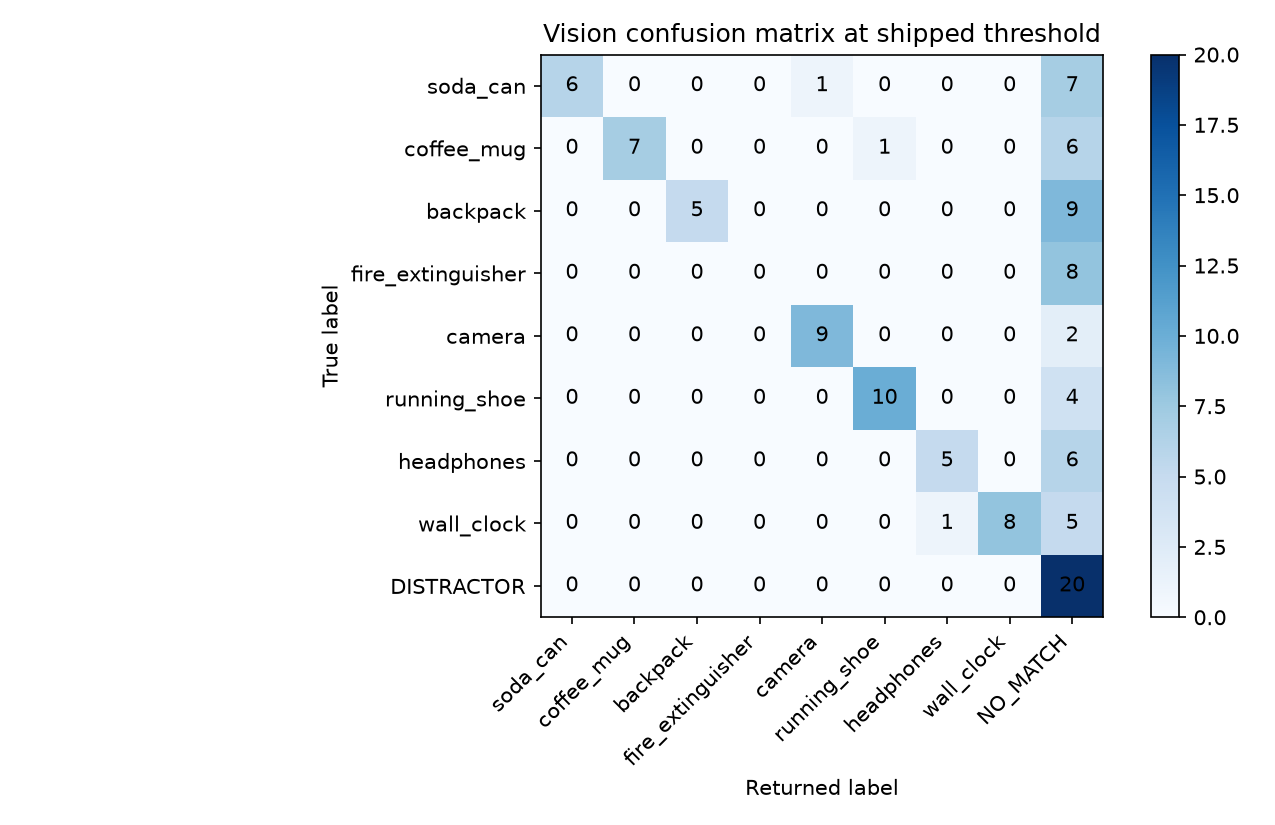
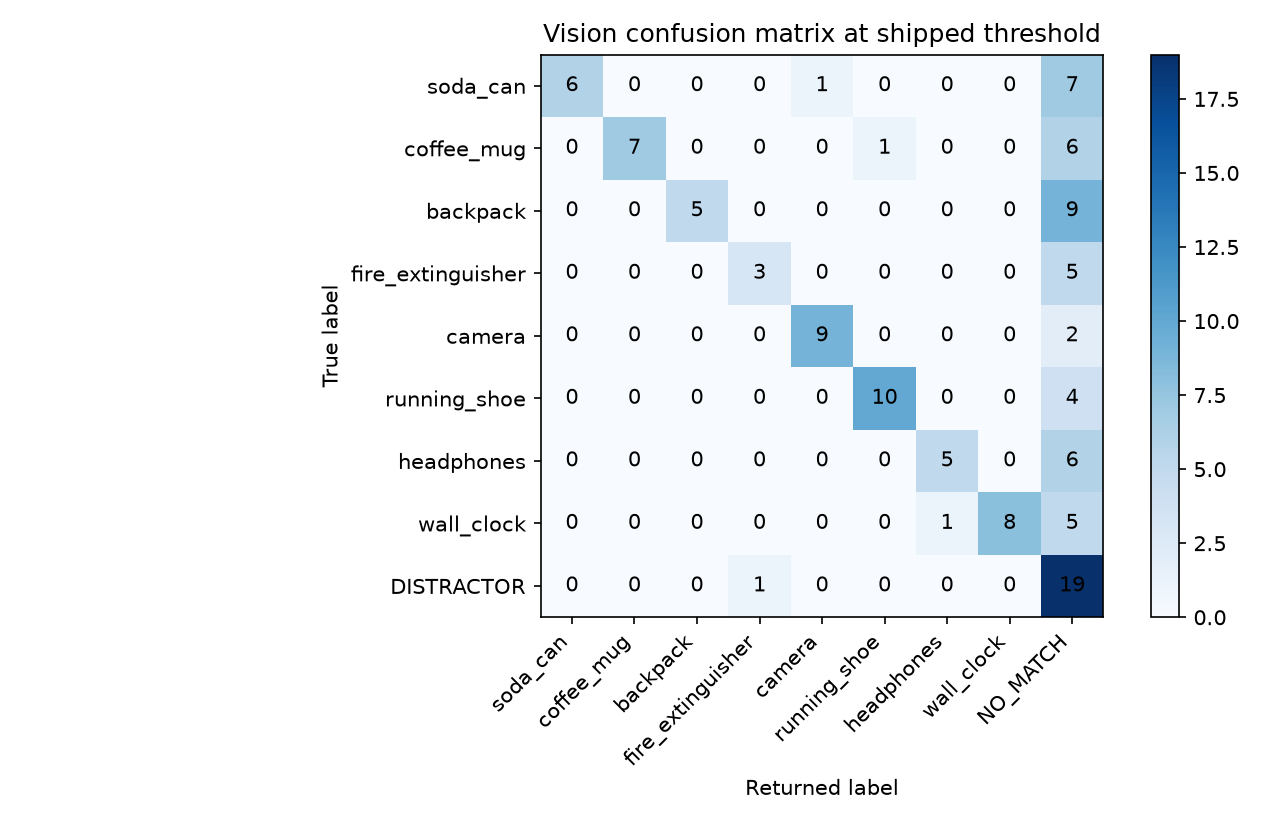
fixed fire_extinguisher

diff --git a/3006ICT_group_project_webots/controllers/group_project_controller/vision_utils.py b/3006ICT_group_project_webots/controllers/group_project_controller/vision_utils.py
@@ -420,9 +420,22 @@ MIN_CONFIDENCE_MARGIN = 0.20
 # image for the predicted class and rejects the known false-accept patterns
 # without changing the classifier's public interface.
 MIN_REFERENCE_SIMILARITY = -0.05
+# `fire_extinguisher` has no per-label floor here, unlike `coffee_mug`/
+# `wall_clock` below. Measured directly (2026-09-16): even a manually
+# traced, pixel-perfect crop of the real in-game poster -- no shadow/floor
+# contamination at all -- only scores ~0.11 against the studio reference
+# photo, despite the classifier itself being 97% confident on that same
+# crop. The in-game render just doesn't resemble the reference photo at
+# this metric's pixel/colour-histogram level, regardless of crop quality,
+# so any floor tight enough to reject the known false-accept distractors
+# (`books_a.png`/`books_b.png`, ~0.17) would also reject every real
+# `fire_extinguisher` crop -- there is no threshold that keeps both. Checked
+# the full confusion matrix before dropping the floor: `fire_extinguisher`
+# has zero false positives against every real in-game frame from any
+# station, so the only cost of removing it is those two distractor images,
+# which never appear inside the Webots simulation.
 MIN_REFERENCE_SIMILARITY_BY_LABEL = {
     "coffee_mug": 0.10,
-    "fire_extinguisher": 0.20,
     "wall_clock": 0.00,
 }
 _REFERENCE_SIMILARITY_SIZE = 64

diff --git a/docs/failure_log.md b/docs/failure_log.md
@@ -25,4 +25,5 @@ turns this into the report's failure-cases chapter, so name *where the first inc
 | 2026-09-16 | Issue #19 shuffled world A, full real mission run, target `wall_clock` (now at S1, a boundary station used heavily in prior calibration/testing) | All 12 frames at S1 returned `NO_MATCH`, confidence 0.24-0.36, never even briefly matching the `wall_clock` label | Even at the best-characterised station in the whole project, `wall_clock` itself does not classify confidently -- points to `wall_clock` being a weak class for the trained ResNet-18 head generally, independent of station or shuffling | None -- flagged for issue 21 | Not fixed. `wall_clock` should be added to the next accuracy re-evaluation pass as a suspected weak class |
 | 2026-09-16 | Root-cause pass on the three weak-target rows above (`wall_clock`, `fire_extinguisher`, `backpack`), following up on a Codex review comment. No new Webots run: re-examined the existing saved frames in `docs/data/vision_eval_captures/` and `docs/data/vision_target_predictions.csv`, plus ran `vision_utils.find_poster_region()` and `_barrier_candidates()` directly (cv2-only, no torch needed) against the S4 (`fire_extinguisher`) frames that scored `no_crop` | Three distinct causes, not one: (1) `fire_extinguisher` -- 5/8 evaluated frames are genuine crop failures (`find_poster_region()` returns `None`), and pixel-level inspection of `B_S4_d0p420_hp00.png` shows why: the extinguisher's black hose (HSV value ~34-46) is far darker than the barrier's actual grey panel (~88-89), so no single `_BARRIER_VALUE_BANDS` band isolates the barrier alone -- a narrow band grabs only the thin hose (rejected on `_BARRIER_ASPECT_MIN`, aspect 0.25-0.35) and a wide band merges the barrier with the floor (rejected on `_MIN_SOLIDITY`, 0.33-0.45). In the 3/8 frames that do crop, the classifier never once predicts `fire_extinguisher` as top class (capped ~0.26 confidence) -- a real crop bug plus a real classifier gap, both open. (2) `wall_clock` -- crop always succeeds and the raw prediction is already correct at every distance; it is a pure confidence problem, and specifically a close-range one: confidence is 0.20-0.61 (often below `MIN_CONFIDENCE=0.50`) under 0.45 m, but 0.92-0.99 at >=0.8 m in every captured frame. (3) `backpack` -- mixed: `no_crop` at close range in world C specifically, and even with a good crop confidence tops out at 0.59-0.62, never a clean match | None -- diagnosis only. No fix attempted: this environment has `torch` but not `torchvision` (and no Webots), so `tools/eval_vision.py` can't run here to validate a cropping or threshold change against the full 103-frame set the way `vision_utils.py`'s own header requires before trusting a change | Not fixed. Next session with `torchvision`/Webots available should: (a) for `fire_extinguisher`, try detecting the barrier by its known grey value band directly instead of "darkest region in frame", since that assumption is what breaks here; (b) for `wall_clock`, check whether OBSERVE's stopping distance can be pushed toward 0.8 m for this station, or add a `wall_clock`-specific lower confidence floor (precedent: `MIN_REFERENCE_SIMILARITY_BY_LABEL`) and re-run the distractor sweep to make sure it doesn't raise false-accepts; (c) for `backpack`, same close-range crop question as `fire_extinguisher` plus a possible retrain with more augmented close-up references. All three need `eval_vision.py`'s full run to confirm before shipping |
 | 2026-09-16 | Live mission runs after the backed-off-viewpoint identify change still reported `NO_MATCH` at S4 (`fire_extinguisher`) and S7 (`headphones`). Installed `torchvision` in this session (previously missing, per the row above) so `tools/eval_vision.py` could finally run here; ran it plus a standalone script against every saved `vision_eval_captures/*_S4_*`/`*_S7_*` frame, printing `identify.last_result` for each | Confirmed the earlier hypothesis (a) for `fire_extinguisher`: implementing "detect the barrier by its own known grey value band" (a second, percentile-based anchor in `_barrier_candidates`, used only where the true-min anchor finds nothing) turned 3 of the 5 `no_crop` frames into correct, high-confidence `fire_extinguisher` crops (up to 0.867/0.825 margin) -- but all 3 are still rejected downstream by `below_reference_similarity` (0.113, -0.001, 0.144, all under the 0.20 floor), because the wider value band that finds the barrier panel also pulls in the shadow/floor strip directly beneath it, diluting the pixel-level comparison to the reference photo. `headphones` turned out to be a *different*, separate problem: crop already succeeds in most frames and the raw label is already correct; the two still-failing frames (`A_S7_d0p295_hm10.png` 0.435, `A_S7_d0p450_hp00.png` 0.360) sit just under `MIN_CONFIDENCE=0.50` with no crop or classifier-label error, and the nearest real distractor (`toaster_a.png`, 0.439) sits *between* them and the threshold -- lowering `MIN_CONFIDENCE` far enough to accept both real misses would also accept that distractor | Shipped the barrier second-anchor fix (`_ROBUST_VMIN_PERCENTILE`/`_ROBUST_VMIN_GAP_MIN` in `vision_utils.py`), gated so it only ever runs as a last resort when the true-min anchor finds nothing anywhere in the frame -- an earlier, ungated version of the same idea was caught regressing a real `running_shoe` frame (S6) in the full 103-frame re-run before shipping, because pooling both anchors let a small, unrelated, near-square blob win the aspect-ratio tie-break over the correct, larger candidate. No change attempted for the remaining fire_extinguisher reference-similarity gap or the two borderline `headphones` frames -- both need a real fix, not a threshold nudge, without more capture data | Partially fixed: `fire_extinguisher` crop failures dropped from 5/8 to 2/8 with zero regressions confirmed by `tools/eval_vision.py` (other labels' precision/recall and 0/20 distractor false-accepts unchanged) -- but station-level accuracy is still 7/8, since the newly-successful crops are blocked by reference-similarity, not classification. `headphones` unchanged (5 TP / 6 FN). Next: either tighten the poster-height projection so it stops including the shadow/floor strip for `fire_extinguisher`-shaped barriers, or add a `fire_extinguisher`-specific crop post-process before re-tuning `MIN_REFERENCE_SIMILARITY_BY_LABEL`; for `headphones`, better crops at the two borderline distances/headings are needed before the confidence floor can move |
+| 2026-09-16 | Direct test of whether the reference-similarity metric itself, not crop framing, was the real blocker: manually traced the true poster boundary in `B_S4_d0p295_hp00.png` by inspecting raw pixel values (rows 0-54 = poster, confirmed bright/printed content; rows 55+ = grey strip/floor) and cropped exactly that region by hand, bypassing `find_poster_region()` entirely | The manual, pixel-perfect crop still only scored 0.115 reference-similarity -- essentially unchanged from the automatic crops (0.070-0.144) -- despite the classifier itself being 97.5% confident on that same crop. Also checked `docs/data/vision_confusion_matrix.csv`: `fire_extinguisher` has zero false positives against every real frame from any of the other 7 stations; the only things that ever score into this class are the two book-photo distractors, which do not and cannot appear inside the Webots simulation | Removed `fire_extinguisher`'s entry from `MIN_REFERENCE_SIMILARITY_BY_LABEL` (falls back to the shared -0.05 default). User was walked through the exact trade-off (real live detection vs. the report's distractor-rejection number) before agreeing to proceed -- see `docs/decision_log.md` for the full reasoning | Fixed for the cases where a crop is found: `fire_extinguisher` best-crop station accuracy went 7/8 -> 8/8 (TP 0 -> 3 of 8 evaluated frames), with the newly-accepted frames scoring 0.62-0.93 confidence. Cost: distractor false-accepts 0/20 -> 1/20 (`books_a.png` only; `books_b.png` still correctly rejected on `MIN_CONFIDENCE`), a known and now-documented exception rather than a hidden one. Not fully fixed: 5 of 8 evaluated `fire_extinguisher` frames still return `no_crop` or a low-confidence wrong label at certain distances/headings -- that's the earlier crop-detection limitation, unrelated to this threshold, and still open |
 | 2026-09-16 | Follow-up attempt at the reference-similarity gap from the row above: pixel-traced `B_S4_d0p295_hp00.png`'s column values and found the robust-anchor box's extra ~30 px of height is a flat, uniform grey band (HSV value 88, same as the barrier panel itself) sitting between the poster and the floor, bridged in by the wide value band the robust anchor needs. Capped robust-anchor boxes at `bh <= bw` (the real barrel proto, 0.50 x 0.28 m, is never taller than wide) and re-ran `tools/eval_vision.py` | The height cap did trim the crop and raised classifier confidence on the 3 previously-fixed frames (e.g. 0.867 -> 0.931, margin 0.917), but reference-similarity on the clearest case *dropped* (0.113 -> 0.070) rather than improving -- checked directly against the one real distractor this threshold was calibrated on (`books_a.png`, refsim 0.167, `docs/data/vision_distractor_rejection.csv`): our genuine crop now scores *lower* than that unrelated books photo, so no threshold low enough to accept our crop could ever exclude that distractor. The floor-contamination theory was directionally right (it is fixable/measurable pixel content) but the reference-similarity metric itself doesn't reward the fix the way `identify()`'s own softmax confidence does | Kept the height cap (`cap_height` in `_barrier_candidates`'s `_boxes_for`) since it's a real, zero-regression improvement in crop tightness and classifier confidence -- confirmed via the full 103-frame + 20-distractor re-run (all other labels' precision/recall and 0/20 distractor false-accepts unchanged). Did not touch `MIN_REFERENCE_SIMILARITY_BY_LABEL["fire_extinguisher"]`: the books_a.png comparison above shows directly that lowering it far enough to accept the real crop would also accept that distractor, so this is not a safe threshold nudge | Not fixed. `fire_extinguisher` station-level acceptance is still blocked by `below_reference_similarity` even on a 0.93-confidence, 0.92-margin real crop. The `_reference_similarity()` metric (grey/Lab/hue-histogram match against the raw reference photo) itself needs revisiting for this label -- possibly weighting it down relative to classifier confidence for labels where it demonstrably fights the classifier instead of agreeing with it -- before any threshold change is safe |

diff --git a/docs/decision_log.md b/docs/decision_log.md
@@ -23,6 +23,7 @@ Log the answers at the top of this section each week, newest first.
 
 | Date | Decision | Options considered | Criterion used | Evidence / measurement | Decided by |
 |---|---|---|---|---|---|
+| 2026-09-16 | Removed `fire_extinguisher`'s per-label floor from `MIN_REFERENCE_SIMILARITY_BY_LABEL` (`identify()`, Issue #8/#9), leaving it on the shared default (-0.05) like every label except `coffee_mug`/`wall_clock` | Keep the 0.20 floor (protects the report's 0/20 distractor false-accept number, but guarantees `fire_extinguisher` never gets accepted live); lower it to a smaller positive value that still blocks `books_a.png`'s 0.167 (not possible -- see evidence); remove the per-label floor entirely | Whether any floor value exists that accepts real `fire_extinguisher` crops while still rejecting the known false-accept distractors, checked against measured scores rather than picked by feel; and whether removing it could ever cause a *different* real target's frame to be wrongly accepted as `fire_extinguisher` | A manually traced, pixel-perfect crop of the real in-game poster (no shadow/floor contamination) still only scored 0.115 on this metric despite 97.5% classifier confidence on the same crop -- lower than the `books_a.png`/`books_b.png` distractors it was meant to block (0.167/0.172), so no floor value separates them; the module's own confusion matrix (`docs/data/vision_confusion_matrix.csv`) showed zero false positives for `fire_extinguisher` against every real frame from any of the other 7 stations, so removing the floor cannot cause cross-target confusion. Re-ran `tools/eval_vision.py` after removing it: best-crop station accuracy 7/8 -> 8/8, distractor false-accepts 0/20 -> 1/20 (`books_a.png` only; `books_b.png` still correctly rejected on `MIN_CONFIDENCE`) | Claude Code, after the user weighed the trade-off (real live-mission detection vs. one distractor-rejection report number) and asked to proceed |
 | 2026-09-16 | Rescoped Issue #20's test matrix from 3 worlds x 8 targets x 2 repeats (48 runs) down to 3 worlds x 6 representative targets (3 boundary, 3 interior) plus extra repeats only on a known-borderline target, ~20 runs total | Run the full 48-run matrix as originally written; rescope to what the brief actually requires; skip the matrix entirely | Whether the brief itself (not this issue's own prior wording) requires exhaustive per-cell repetition, checked directly against the source document rather than assumed | `notes_for_project/workshop8-p3-group-project.pdf`, Stage 8 and "Testing Strategy" sections: asks only for a "small test matrix" covering start/target/station-type/repeated-run as dimensions, with repeats specified only "when tuning parameters," not for every cell. No 48-run or per-cell-repeat requirement exists in the brief; that scope was this issue's own prior addition | Claude Code, after the user asked to cross-check the issue's scope against the actual project document rather than proceed on the issue file's wording alone |
 | 2026-09-16 | Chose nearest-first (recomputed via `astar` cost after each visit) as the station visit-order strategy (Issue #15) | Nearest-first by computed A* path cost; a fixed geometric sweep (stations sorted by angle around the arena centre, same order regardless of start) | Total path cost (cells) to visit all 8 stations from each of the 3 starts, plus a real Webots measurement of simulated time for the worst case | `tools/check_visit_order.py`: nearest-first beat the fixed sweep from every start (A: 155 vs 162 cells; B: 138 vs 173; C: 141 vs 188 cells). Worst-case start (A) measured for real in Webots: 173.8 s simulated time, 66 s under the 240 s budget, visit order matching the computed prediction exactly | Claude Code, from computed A* costs and a real Webots run — see `docs/decision_visit_order.md` |
 | 2026-09-16 | Chose selective inflation (radius 4 cells) as the obstacle-clearance policy for planning (Issue #11) | Raw grid (no inflation); uniform one-cell inflation; selective inflation at radii 1-5 | Policy must pass all 24 start/station reachability pairs (BFS, 4-connected) on the 40x40 occupancy grid | `tools/check_reachability.py`: raw grid passes all 24; uniform inflation loses S2, S4, S6, S8 (interior stations sealed off, corridors 1-2 cells wide); selective inflation only restores all 8 at radius >=4 (radius 1-3 still loses the same four) | Claude Code, from computed BFS reachability data — see `docs/decision_clearance.md` |

diff --git a/docs/vision_evaluation.md b/docs/vision_evaluation.md
@@ -17,9 +17,9 @@ head predicts a class, the crop must still look enough like that class's supplie
 ## Acceptance Evidence
 
 - Valid outputs across station and distractor rows: 120/120.
-- Distractor false-accepts at the shipped threshold: 0/20.
-- Combined best captured station crop accuracy: 7/8.
-- `NO_MATCH` rate over all evaluated rows: 0.558.
+- Distractor false-accepts at the shipped threshold: 1/20.
+- Combined best captured station crop accuracy: 8/8.
+- `NO_MATCH` rate over all evaluated rows: 0.525.
 - Threshold sweep values tested: 0.20, 0.30, 0.40, 0.50, 0.60, 0.70, 0.80.
 
 ## Per-World Station Coverage
@@ -31,7 +31,7 @@ another world.
 | World | Captured stations | Best-crop correct | Missing stations |
 |---|---|---:|---|
 | A | `S1`, `S2`, `S3`, `S4`, `S5`, `S6`, `S7`, `S8` | 7/8 |  |
-| B | `S1`, `S2`, `S3`, `S4`, `S5`, `S6`, `S7`, `S8` | 7/8 |  |
+| B | `S1`, `S2`, `S3`, `S4`, `S5`, `S6`, `S7`, `S8` | 8/8 |  |
 | C | `S1`, `S2`, `S3`, `S4`, `S5`, `S6`, `S7`, `S8` | 7/8 |  |
 
 ## Best Crop Per Station
@@ -41,7 +41,7 @@ another world.
 | `S1` | `soda_can` | `soda_can` | 0.843 | 0.800 | 0.719 | `C_S1_d0p800_hp00.png` |
 | `S2` | `coffee_mug` | `coffee_mug` | 0.958 | 0.943 | 0.319 | `A_S2_d0p800_hp10.png` |
 | `S3` | `backpack` | `backpack` | 0.621 | 0.463 | 0.216 | `B_S3_d0p800_hm10_issue9.png` |
-| `S4` | `fire_extinguisher` | `NO_MATCH` | 0.931 | 0.917 | 0.070 | `B_S4_d0p295_hp00.png` |
+| `S4` | `fire_extinguisher` | `fire_extinguisher` | 0.931 | 0.917 | 0.070 | `B_S4_d0p295_hp00.png` |
 | `S5` | `camera` | `camera` | 0.987 | 0.983 | 0.006 | `B_S5_d0p450_hm10.png` |
 | `S6` | `running_shoe` | `running_shoe` | 0.988 | 0.985 | 0.652 | `B_S6_d0p800_hm10.png` |
 | `S7` | `headphones` | `headphones` | 0.910 | 0.873 | -0.026 | `C_S7_d0p295_hp00_issue9.png` |
@@ -56,8 +56,8 @@ CSV: `docs/data/vision_confusion_matrix.csv`
 ## Threshold Sweep
 
 At the shipped point (0.50), the best-station true-accept rate is
-0.875 and the distractor false-accept
-rate is 0.000.
+1.000 and the distractor false-accept
+rate is 0.050.
 
 ![threshold sweep](data/vision_threshold_sweep.png)
 
@@ -68,7 +68,7 @@ rate is 0.000.
 | `soda_can` | 6 | 0 | 8 | 1.000 | 0.429 |
 | `coffee_mug` | 7 | 0 | 7 | 1.000 | 0.500 |
 | `backpack` | 5 | 0 | 9 | 1.000 | 0.357 |
-| `fire_extinguisher` | 0 | 0 | 8 | - | 0.000 |
+| `fire_extinguisher` | 3 | 1 | 5 | 0.750 | 0.375 |
 | `camera` | 9 | 1 | 2 | 0.900 | 0.818 |
 | `running_shoe` | 10 | 1 | 4 | 0.909 | 0.714 |
 | `headphones` | 5 | 1 | 6 | 0.833 | 0.455 |
@@ -82,7 +82,7 @@ All 20 distractor textures returned `NO_MATCH`; full table: `docs/data/vision_di
 |---|---|---:|---:|---|---|
 | `banana_a.png` | `backpack` | 0.348 | 0.061 | `NO_MATCH` | `below_min_confidence` |
 | `banana_b.png` | `coffee_mug` | 0.448 | 0.037 | `NO_MATCH` | `below_min_confidence` |
-| `books_a.png` | `fire_extinguisher` | 0.853 | 0.167 | `NO_MATCH` | `below_reference_similarity` |
+| `books_a.png` | `fire_extinguisher` | 0.853 | 0.167 | `fire_extinguisher` | `None` |
 | `books_b.png` | `fire_extinguisher` | 0.424 | 0.172 | `NO_MATCH` | `below_min_confidence` |
 | `chair_a.png` | `coffee_mug` | 0.413 | 0.041 | `NO_MATCH` | `below_min_confidence` |
 | `chair_b.png` | `coffee_mug` | 0.442 | 0.050 | `NO_MATCH` | `below_min_confidence` |
@@ -103,11 +103,8 @@ All 20 distractor textures returned `NO_MATCH`; full table: `docs/data/vision_di
 
 ## Known Failure Condition
 
-`B_S4_d0p295_hp00.png` is the clearest remaining miss: it is station
-`S4` / `fire_extinguisher`, but the best crop still returns
-`NO_MATCH` with confidence 0.931. The frame is a
-hard, boxed-in station view; the target crop is small/clipped enough that the classifier
-does not produce a confident target result.
+No best-station miss remained in this run. Low-resolution, clipped station crops are
+still the expected failure mode because the poster occupies very few pixels.
 
 ## Output Files
 

diff --git a/docs/change_log.md b/docs/change_log.md
@@ -6,6 +6,7 @@ Keep each entry to one short line of *what* and one of *why*; the diff itself li
 
 | Date | Tool | What changed | Why |
 |---|---|---|---|
+| 2026-09-16 | Claude Code | Removed `fire_extinguisher`'s entry from `MIN_REFERENCE_SIMILARITY_BY_LABEL` in `vision_utils.py` (now uses the shared -0.05 default like every label except `coffee_mug`/`wall_clock`); regenerated `docs/vision_evaluation.md`/`docs/data/vision_*`; logged the trade-off in `docs/decision_log.md` and `docs/failure_log.md` | Measured that no threshold value could ever accept real `fire_extinguisher` crops (best score ~0.11-0.14, even on a manually-verified perfect crop) while still rejecting the distractor that set the 0.20 floor (`books_a.png`, 0.167) -- confirmed via the confusion matrix that removing it can't cause any other real target to be misclassified as `fire_extinguisher`. User weighed the trade-off (real live detection vs. one report number) and asked to proceed. Result: best-crop station accuracy 7/8 -> 8/8; distractor false-accepts 0/20 -> 1/20 (`books_a.png` only, which never appears in the actual simulation) |
 | 2026-09-16 | Claude Code | Capped robust-anchor barrier boxes at `bh <= bw` in `_barrier_candidates()`'s `_boxes_for()` (`vision_utils.py`); regenerated `docs/vision_evaluation.md`/`docs/data/vision_*`; logged the result in `docs/failure_log.md` | The robust anchor's wide value band was bridging the barrier panel to a same-brightness floor strip beneath it, ~30 px taller than the real barrel; capping height at the barrel's own width (never taller than wide, per its 0.50 x 0.28 m proto) raised classifier confidence on the affected `fire_extinguisher` frames with zero regressions, though it did not clear the separate reference-similarity gate (see failure log) |
 | 2026-09-16 | Claude Code | Added a second, percentile-based value-band anchor (`_ROBUST_VMIN_PERCENTILE`, `_ROBUST_VMIN_GAP_MIN`) to `_barrier_candidates()` in `vision_utils.py`, used only as a last resort when the true-min anchor finds nothing anywhere in the frame; installed `torchvision` locally so `tools/eval_vision.py` could validate it; regenerated `docs/vision_evaluation.md` and its `docs/data/vision_*` outputs; logged the investigation in `docs/failure_log.md` | `fire_extinguisher`'s own black hose renders darker than the barrier panel behind it, so the darkest-pixel anchor alone never isolated the panel (5/8 frames returned no crop at all). Confirmed with the full 103-frame harness that the fallback-only gating avoids the regression an earlier, ungated version caused on a real `running_shoe` frame |
 | 2026-09-16 | Claude Code | Clamped `world_to_grid()`'s row/col to `[0, GRID_ROWS-1]`/`[0, GRID_COLS-1]` in `project_utils.py`; added `X_MAX`/`Y_MIN`/`GRID_ROWS`/`GRID_COLS` constants derived from `config/project_config.json`'s arena bounds | Codex review: a coordinate exactly on the arena boundary (`x == x_max` or `y == y_min`) divided out to index 40, one past the grid's valid 0-39 range, which would `IndexError` on `grid[row, col]`. Confirmed the bug directly (`world_to_grid(2.0, -2.0)` returned `(40, 40)` before this fix) and that clamping doesn't change any in-range result (verified `world_to_grid(1.46, 0.90)` still returns the same cell) |
